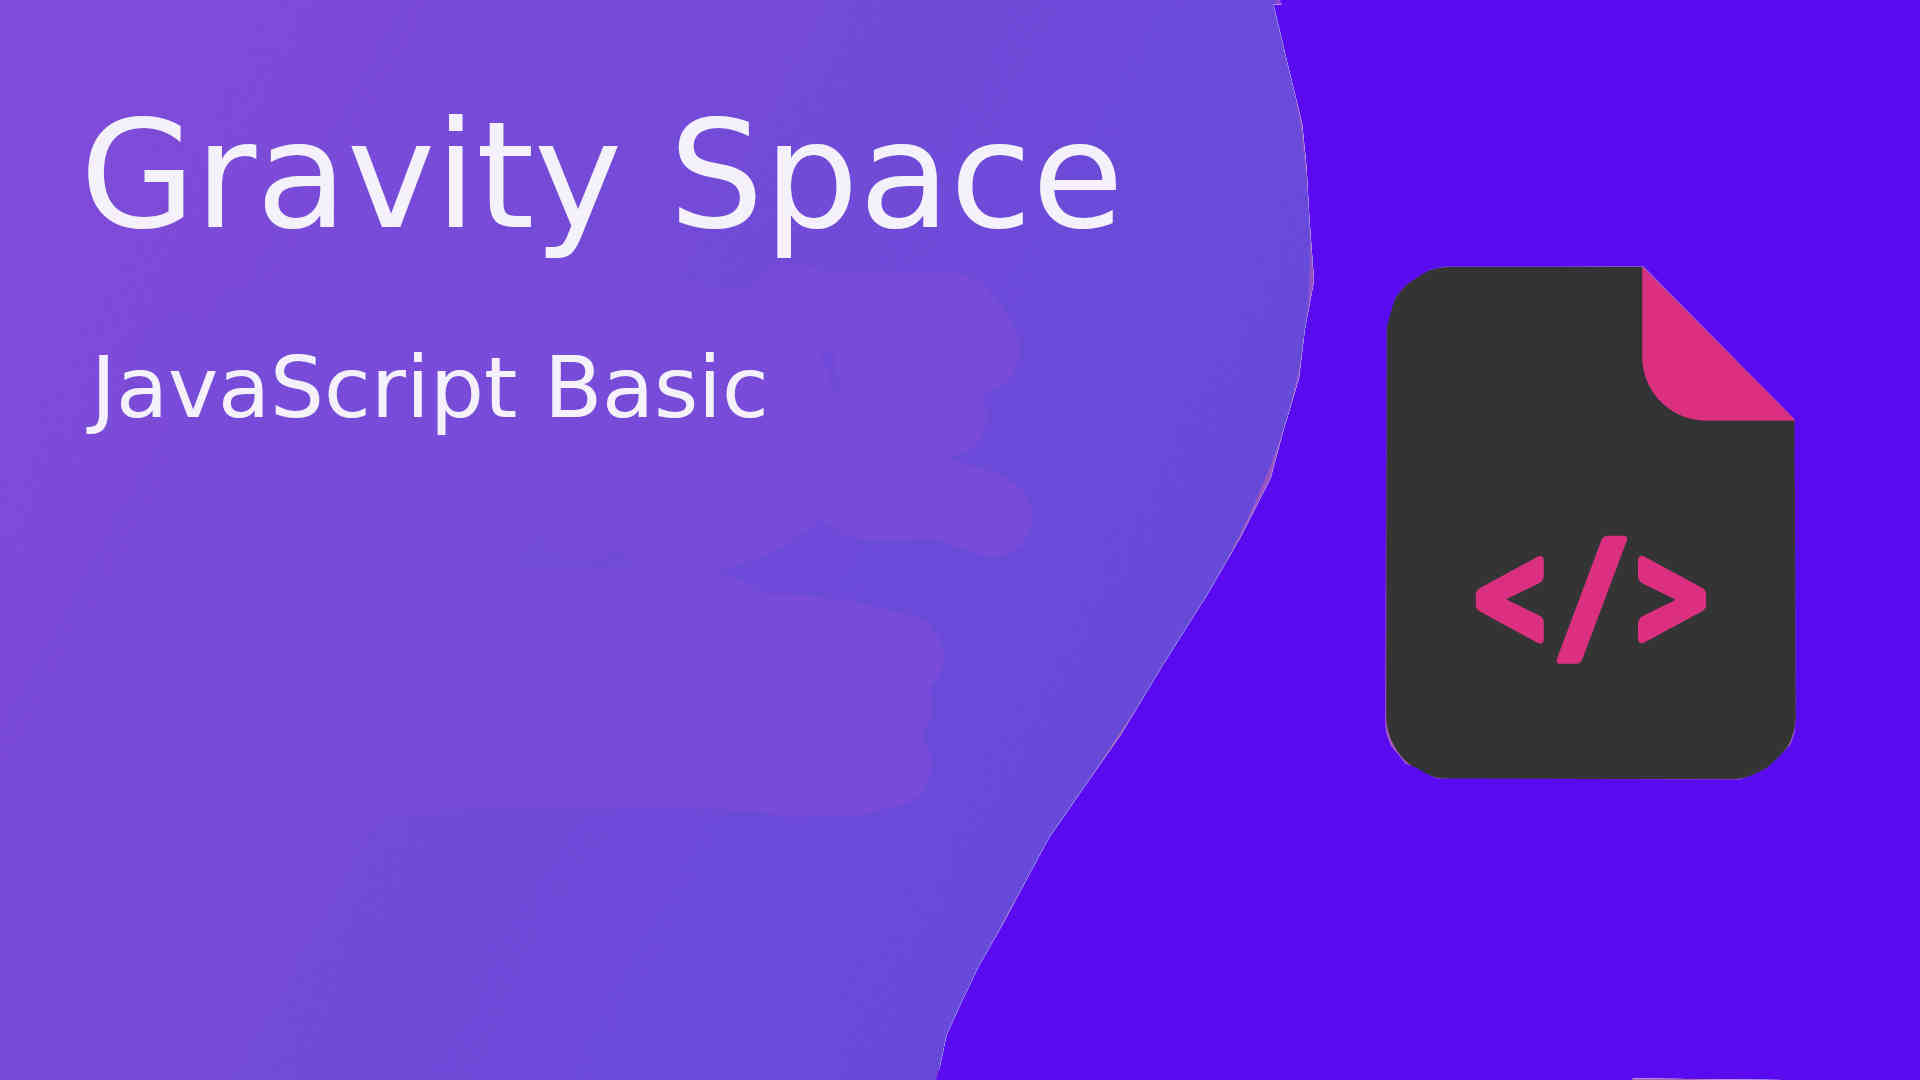
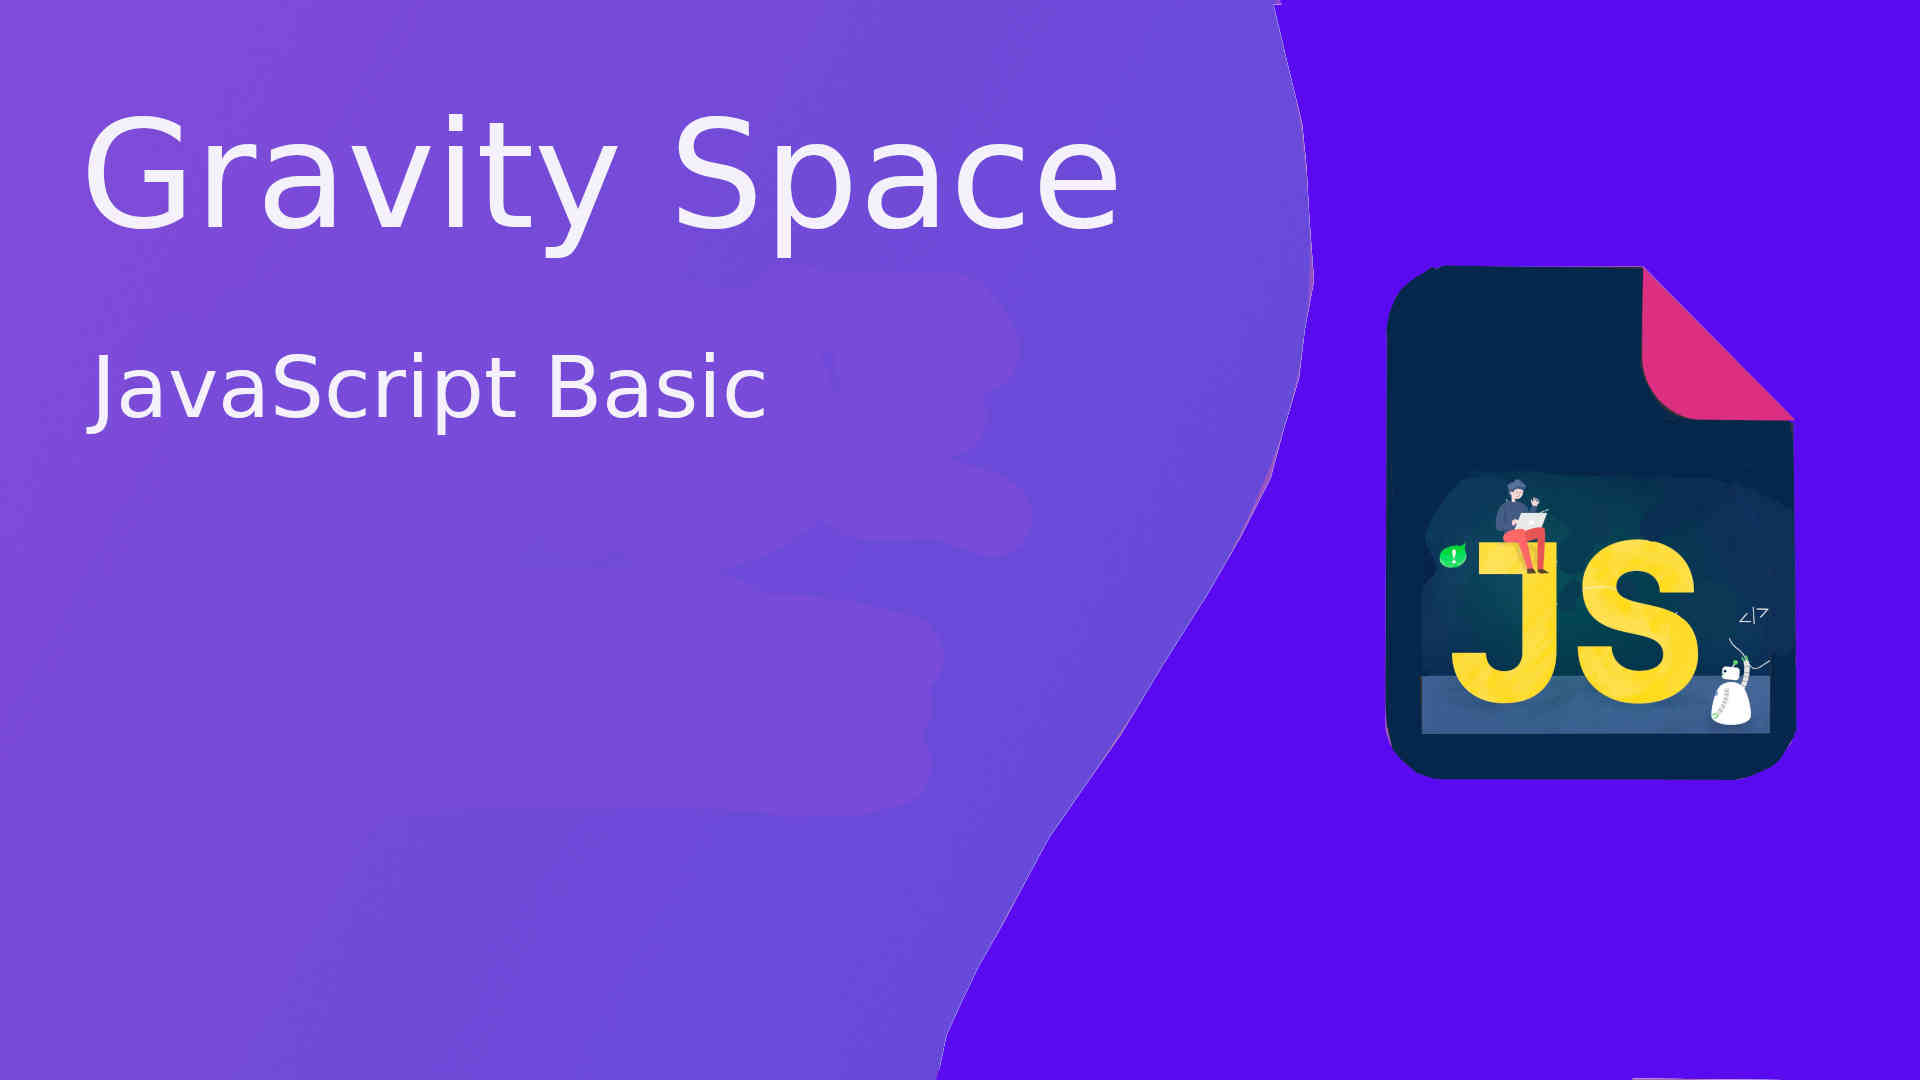
up
up

Changed region(s): [[0.7188, 0.2444, 0.9375, 0.7333]]

diff --git a/README.md b/README.md
@@ -1,6 +1,6 @@
 # javascript-basic
 Javascript Basic
-<img src="images/javascript.jpg" alt="" class="img-fluid">
+<img src="images/javascript.jpg" alt="Javascript Basic" class="img-fluid">
 
 Javascript Basic. Урок первый
 
